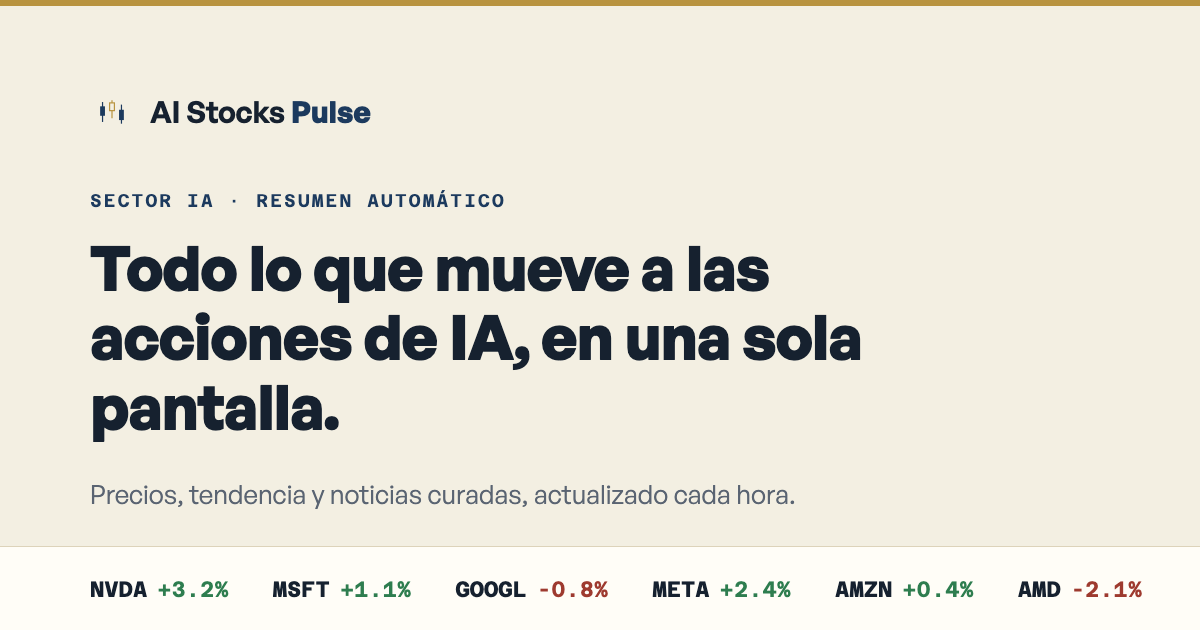
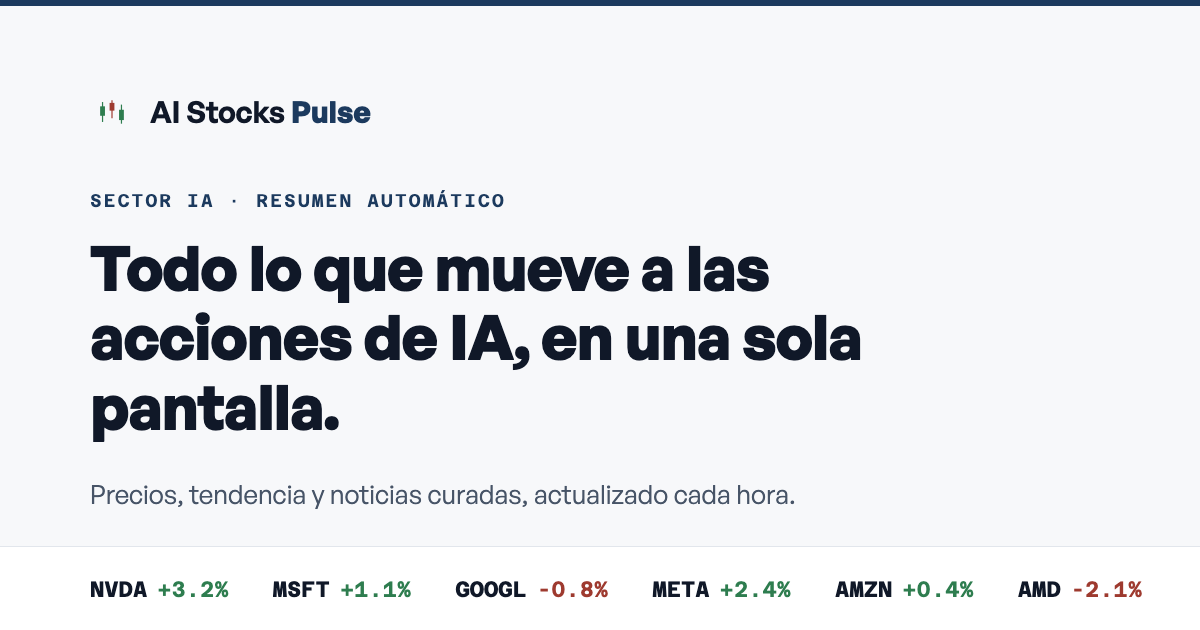
Rediseña colorimetría: paleta neutra fría + acento navy único
Reemplaza el pergamino+oro por blanco/gris frío + un solo acento navy
(colores convencionales de software financiero), vía taste-skill Lila
Rule. Se eliminan --gold/--gold-dim, se recolorean íconos a candlestick
verde/rojo, se regenera la og-image y se documenta el cambio (5ta
iteración de paleta) en DESIGN.md y el sidecar .impeccable/design.json.

Changed region(s): [[0.0, 0.0, 1.0, 0.0302], [0.0617, 0.1508, 0.1233, 0.181]]

diff --git a/styles.css b/styles.css
@@ -1,13 +1,12 @@
 /* ---------------------------------------------------------------------
    AI Stocks Pulse — design system
-   Direction: the stock certificate, not the ledger sheet. Warm parchment
-   paper with navy ink and a rare gold accent — the classic dual-tone of
-   an engraved stock certificate or a bank's letterhead, which reads as
-   unmistakably financial in a way plain green ledger paper didn't.
-   Navy stays the primary interactive accent; gold is a deliberately
-   scarce second accent (the hero panel's border, brand touches) —
-   never used for semantics, which stay green/red/slate. Single
-   deliberate theme: this material doesn't have a "dark mode."
+   Direction: the colors people already recognize from finance software,
+   not an invented editorial palette. Cool neutral white/grey base (the
+   convention almost every banking or trading app uses, for legibility
+   and comfort over long sessions) with a single navy-blue accent — one
+   accent only, everywhere, per the Lila Rule. Semantics (rise/fall/
+   mixed) stay green/red/slate and never borrow the accent hue. Single
+   deliberate theme: this is a daily tool, not a themeable brand site.
 
    Prose voice: General Sans, self-hosted (see fonts/GENERAL-SANS-LICENSE.txt)
    — the open-license alternative to SF Pro, so the page reads the same
@@ -71,20 +70,17 @@
 }
 
 :root {
-  --paper: #f3efe2;
-  --panel: #fffdf7;
-  --panel-raised: #ece4cf;
-  --line: #ddd3ba;
-  --line-strong: #c7ba98;
-  --text: #16212f;
-  --text-dim: #5a6472;
-  --text-faint: #8b93a0;
+  --paper: #f7f8fa;
+  --panel: #ffffff;
+  --panel-raised: #eef1f5;
+  --line: #e2e6ec;
+  --line-strong: #ccd3dc;
+  --text: #101828;
+  --text-dim: #475467;
+  --text-faint: #98a2b3;
 
   --accent: #1c3a5e;
-  --accent-dim: rgba(28, 58, 94, 0.1);
-
-  --gold: #b8933f;
-  --gold-dim: rgba(184, 147, 63, 0.14);
+  --accent-dim: rgba(28, 58, 94, 0.08);
 
   --rise: #2e7d4f;
   --rise-dim: rgba(46, 125, 79, 0.1);
@@ -322,13 +318,13 @@ header, main, footer { position: relative; z-index: 1; }
 .sentiment-bearish { color: var(--fall); border-color: rgba(158,58,47,0.3); }
 .sentiment-mixed { color: var(--mixed); border-color: rgba(91,107,122,0.3); }
 
-/* "Ticker readout" panel — hairline top border in gold instead of a
-   gradient card, so it reads as an instrument, not a marketing tile.
-   The one deliberate use of the rare secondary accent. */
+/* "Ticker readout" panel — hairline top border in the single accent
+   instead of a gradient card, so it reads as an instrument, not a
+   marketing tile. */
 .hero-card {
   background: var(--panel);
   border: 1px solid var(--line);
-  border-top: 2px solid var(--gold);
+  border-top: 2px solid var(--accent);
   border-radius: var(--radius-sm);
   padding: 26px 26px 28px;
   display: flex;
@@ -647,7 +643,7 @@ header, main, footer { position: relative; z-index: 1; }
 .modal-overlay {
   position: fixed;
   inset: 0;
-  background: rgba(22, 33, 47, 0.45);
+  background: rgba(16, 24, 40, 0.45);
   display: flex;
   align-items: center;
   justify-content: center;
@@ -660,14 +656,14 @@ header, main, footer { position: relative; z-index: 1; }
   position: relative;
   background: var(--panel);
   border: 1px solid var(--line);
-  border-top: 2px solid var(--gold);
+  border-top: 2px solid var(--accent);
   border-radius: var(--radius-sm);
   padding: 32px 28px 28px;
   max-width: 520px;
   width: 100%;
   max-height: 85vh;
   overflow-y: auto;
-  box-shadow: 0 20px 50px -16px rgba(22, 33, 47, 0.4);
+  box-shadow: 0 20px 50px -16px rgba(16, 24, 40, 0.4);
 }
 
 .modal-close {
@@ -810,7 +806,7 @@ header, main, footer { position: relative; z-index: 1; }
   padding: 12px 20px;
   border-radius: var(--radius-pill);
   font-size: 0.85rem;
-  box-shadow: 0 10px 30px -12px rgba(22, 33, 47, 0.35);
+  box-shadow: 0 10px 30px -12px rgba(16, 24, 40, 0.35);
   opacity: 0;
   pointer-events: none;
   transition: opacity 0.2s ease, transform 0.2s ease;

diff --git a/index.html b/index.html
@@ -21,7 +21,7 @@
 <meta name="twitter:description" content="Precios, tendencia y noticias de las principales acciones de Inteligencia Artificial, resumido en 30 segundos.">
 <meta name="twitter:image" content="https://scott1z.github.io/ai-stocks-pulse/images/og-image.png">
 
-<meta name="theme-color" content="#f3efe2">
+<meta name="theme-color" content="#f7f8fa">
 <link rel="manifest" href="manifest.json">
 <link rel="icon" href="icons/icon.svg" type="image/svg+xml">
 <link rel="apple-touch-icon" href="icons/icon.svg">

diff --git a/service-worker.js b/service-worker.js
@@ -1,4 +1,4 @@
-const CACHE_NAME = "ai-stocks-pulse-v10";
+const CACHE_NAME = "ai-stocks-pulse-v11";
 const CORE_ASSETS = [
   "./",
   "./index.html",

diff --git a/DESIGN.md b/DESIGN.md
@@ -2,18 +2,16 @@
 name: AI Stocks Pulse
 description: A daily one-page reader for the AI stocks sector — price ledger, composite chart, and curated news.
 colors:
-  paper: "#f3efe2"
-  panel: "#fffdf7"
-  panel-raised: "#ece4cf"
-  hairline: "#ddd3ba"
-  hairline-strong: "#c7ba98"
-  ink: "#16212f"
-  ink-dim: "#5a6472"
-  ink-faint: "#8b93a0"
+  paper: "#f7f8fa"
+  panel: "#ffffff"
+  panel-raised: "#eef1f5"
+  hairline: "#e2e6ec"
+  hairline-strong: "#ccd3dc"
+  ink: "#101828"
+  ink-dim: "#475467"
+  ink-faint: "#98a2b3"
   accent-navy: "#1c3a5e"
-  accent-navy-dim: "rgba(28, 58, 94, 0.1)"
-  accent-gold: "#b8933f"
-  accent-gold-dim: "rgba(184, 147, 63, 0.14)"
+  accent-navy-dim: "rgba(28, 58, 94, 0.08)"
   rise-green: "#2e7d4f"
   rise-green-dim: "rgba(46, 125, 79, 0.1)"
   fall-red: "#9e3a2f"
@@ -82,49 +80,44 @@ components:
 
 **Creative North Star: "The Quiet Terminal"**
 
-A calm, considered instrument for reading the AI stocks sector — not another black AI-dashboard clone with a purple-to-teal glow, not generic glossy abstract art, and not eco-toned ledger paper either (all three were tried and explicitly rejected during this project, the last for "not feeling like finance"). The system now borrows its materiality from the engraved stock certificate — warm parchment, navy ink, a rare stroke of gold — the dual-tone financial institutions have used on certificates and letterhead for a century. Its discipline still comes from a terminal: tabular numbers, a real ticker tape, a real composite chart. Nothing performs; everything reports.
+A calm, considered instrument for reading the AI stocks sector. This palette went through four directions before landing here — a black terminal (too generic-AI-dashboard), sage-green ledger paper (too "eco," didn't read as financial), a parchment-and-gold stock-certificate motif (distinctive, but more editorial than "commonly used and comfortable") — and settled on the colors people already recognize from finance software itself: a cool neutral white/grey base with a single navy-blue accent, the convention most banking and trading apps actually use, chosen for legibility over long daily sessions rather than for novelty. One accent, everywhere, per the Lila Rule — no second accent competing for attention.
 
-The system is deliberately single-theme (light only). This material doesn't have a dark mode any more than a certificate does — committing to one world was a conscious choice, not an omission.
+The system is deliberately single-theme (light only). This is a daily-use tool, not a themeable brand site — committing to one world was a conscious choice, not an omission.
 
 **Key Characteristics:**
-- Warm parchment background, never green-tinted, pure white, or black
-- Navy as the primary interactive accent; gold as a deliberately scarce second accent (never both at once in the same moment)
-- A separate, distinct semantic triad (green/red/slate) for rise/fall/mixed — never reuses either accent hue
+- Cool neutral white/light-grey background — the convention of banking and trading software, not an invented editorial palette
+- One accent only: navy blue, used identically everywhere (brand mark, active states, focus rings, the two structural top-border accents)
+- A separate, distinct semantic triad (green/red/slate) for rise/fall/mixed — never reuses the accent hue
 - Two deliberate type voices: a plain sans for reading, a tracked-out monospace for every number and label
 - Flat surfaces, hairline dividers, real data visualizations (ticker tape, composite chart, sparklines) instead of decorative imagery
 - Reading an article's summary happens in place (a modal), never an automatic redirect off the page
 
 ## Colors
 
-A warm parchment-and-ink palette: two accents used for different jobs, a separate semantic triad, and neutrals with a consistent warm-paper bias rather than true grays.
+A cool, neutral palette with exactly one accent and a separate semantic triad — the same restraint most finance software uses, and for the same reason: the data is the thing people are there to read, not the chrome around it.
 
 ### Primary
-- **Fountain-Pen Navy** (`#1c3a5e`): the primary accent. Brand mark, active filter state, focus rings, links, hover states on ghost buttons. Used often, but never for anything semantic.
+- **Ledger Navy** (`#1c3a5e`): the single accent. Brand mark, active filter state, focus rings, links, hover states on ghost buttons, and the two structural top-border accents (hero panel, modals). Used often and consistently — the same blue everywhere, never a second competing accent.
 
-### Secondary (semantic — separate from both accents, never overlapping them)
-- **Ledger Green** (`#2e7d4f`): price rises, bullish tags, "live" status dot.
-- **Ledger Red** (`#9e3a2f`): price falls, bearish tags — literally "in the red."
+### Secondary (semantic — separate from the accent, never overlapping it)
+- **Ledger Green** (`#2e7d4f`): price rises, bullish tags, "live" status dot, up candles in the brand mark.
+- **Ledger Red** (`#9e3a2f`): price falls, bearish tags — literally "in the red" — down candles in the brand mark.
 - **Ink Slate** (`#5b6b7a`): mixed/neutral sentiment, the third state between rise and fall.
 
-### Tertiary — rare, deliberate
-- **Certificate Gold** (`#b8933f`): the scarce second accent. Used in exactly two places by design: the hero panel's top border (marking it as "the instrument") and the news-modal panel's top border. Never a fill, never body text, never used alongside navy for the same purpose — if navy is doing the job, gold doesn't also appear.
-
 ### Neutral
-- **Parchment** (`#f3efe2`): page background (`--paper`). Warm, not green — the paper of a certificate, not a plant.
-- **Certificate White** (`#fffdf7`): card/panel surface — the hero readout, ticker tape, modal, toast — distinguishable from the page itself, still warm-toned rather than clinical white.
-- **Raised Parchment** (`#ece4cf`): subtle hover tint for ledger rows and news rows (`--panel-raised`).
-- **Parchment Hairline** (`#ddd3ba`): the default divider — between ledger rows, news rows, ticker items.
-- **Parchment Rule** (`#c7ba98`): a stronger hairline for structural borders (input/chip outlines, the ledger header rule).
-- **Navy Ink** (`#16212f`): primary text. Near-black with a deliberate navy bias, never a true black.
-- **Faded Ink** (`#5a6472`): secondary text (sub-copy, blurbs, chip labels at rest).
-- **Pencil Grey** (`#8b93a0`): tertiary/faint text (captions, stat labels, placeholders).
+- **Cool White** (`#f7f8fa`): page background (`--paper`). Neutral, not warm — the background of a banking dashboard, not a stationery brand.
+- **Panel White** (`#ffffff`): card/panel surface — the hero readout, ticker tape, modal, toast — distinguishable from the page itself.
+- **Raised Grey** (`#eef1f5`): subtle hover tint for ledger rows and news rows (`--panel-raised`).
+- **Hairline** (`#e2e6ec`): the default divider — between ledger rows, news rows, ticker items.
+- **Hairline Strong** (`#ccd3dc`): a stronger hairline for structural borders (input/chip outlines, the ledger header rule).
+- **Ink** (`#101828`): primary text. Cool near-black, never a true `#000`.
+- **Faded Ink** (`#475467`): secondary text (sub-copy, blurbs, chip labels at rest).
+- **Pencil Grey** (`#98a2b3`): tertiary/faint text (captions, stat labels, placeholders).
 
 ### Named Rules
-**The One Voice Rule.** Fountain-Pen Navy is the primary accent; Certificate Gold is a rare second one. Neither ever does semantic work — if a color means rise/fall/mixed, it is never navy or gold.
+**The One Accent Rule.** Ledger Navy is the only brand accent on the page, full stop — not "the primary one among two." It never does semantic work — if a color means rise/fall/mixed, it is never navy.
 
-**The No-Black Rule.** No `#000000` and no clinical `#ffffff` stands alone as a surface without the warm-parchment bias — even "white" panels sit on parchment, and "black" text carries a navy undertone. Pure neutrals read as generic; the warmth is what makes it this system.
-
-**The Gold Scarcity Rule.** Gold appears in exactly two places (hero panel border, modal panel border) and nowhere else. The moment gold shows up a third time, it stops reading as "rare" and starts reading as decoration — don't let that happen.
+**The No-Black Rule.** No `#000000` and no clinical, context-free `#ffffff` — panels and text both carry a deliberate cool bias rather than being pure values. Pure neutrals read as generic; the considered cool tone is what makes it this system.
 
 ## Typography
 
@@ -153,27 +146,27 @@ The hero is the one asymmetric moment: a 1.15fr/0.85fr split (text left, readout
 
 The stock ledger uses a fixed column template (`minmax(190px, 1.6fr) 88px 78px 116px 92px` — company / price / change / trend / signal) shared between the header row and every data row, so columns stay aligned. Under 640px this collapses to a 2-column stacked layout per row rather than preserving five columns on a phone.
 
-The news modal centers over the page with a fixed-position dark scrim behind it (`rgba(22, 33, 47, 0.45)`), capped at `520px` wide and `85vh` tall with internal scroll — never full-screen, always readable as "a card lifted above the page," dismissible by close button, clicking the scrim, or Escape.
+Both modals (News, Stock Detail) center over the page with a fixed-position dark scrim behind them (`rgba(16, 24, 40, 0.45)`), capped in width with internal scroll — never full-screen, always readable as "a card lifted above the page," dismissible by close button, clicking the scrim, or Escape.
 
 ## Elevation & Depth
 
-Flat by default — no ambient drop shadows anywhere in the resting UI. Depth is conveyed by hairline dividers and small tonal shifts (`--panel` vs `--panel-raised` on row hover), not by shadow layering. Paper doesn't float — except the two things that genuinely do.
+Flat by default — no ambient drop shadows anywhere in the resting UI. Depth is conveyed by hairline dividers and small tonal shifts (`--panel` vs `--panel-raised` on row hover), not by shadow layering.
 
 ### Shadow Vocabulary
-- **Toast float** (`box-shadow: 0 10px 30px -12px rgba(22, 33, 47, 0.35)`): the transient status toast.
-- **Modal float** (`box-shadow: 0 20px 50px -16px rgba(22, 33, 47, 0.4)`): the news-summary modal — heavier than the toast because it sits over a dark scrim and needs to read as clearly detached from the page beneath it.
+- **Toast float** (`box-shadow: 0 10px 30px -12px rgba(16, 24, 40, 0.35)`): the transient status toast.
+- **Modal float** (`box-shadow: 0 20px 50px -16px rgba(16, 24, 40, 0.4)`): both modals — heavier than the toast because they sit over a dark scrim and need to read as clearly detached from the page beneath them.
 - **Live-status halo** (`box-shadow: 0 0 0 3px var(--rise-dim)`): not elevation — a soft focus ring around the "live" status dot when data is real (vs. demo).
 
 ### Named Rules
-**The Flat-By-Default Rule.** Elevation is earned only by things that are genuinely temporary or floating above the page (the toast, the modal). A permanent, in-flow element never gets a drop shadow — use a hairline or a tonal shift instead.
+**The Flat-By-Default Rule.** Elevation is earned only by things that are genuinely temporary or floating above the page (the toast, the two modals). A permanent, in-flow element never gets a drop shadow — use a hairline or a tonal shift instead.
 
 ## Shapes
 
 Two radii, applied by role, never mixed within it:
-- **Pill (`999px`)**: every interactive/status element — buttons, filter chips, badges (sentiment, demo/live pill, stock tags), the toast, the modal's close button.
-- **Sharp (`4px`)**: every structural container — the hero readout panel, the search input, the news modal panel. Reads closer to a cut paper edge than a soft app card.
+- **Pill (`999px`)**: every interactive/status element — buttons, filter chips, badges (sentiment, demo/live pill, stock tags), the toast, the modal close buttons.
+- **Sharp (`4px`)**: every structural container — the hero readout panel, the search input, both modal panels. Reads closer to a real financial document than a soft consumer-app card.
 
-Borders are hairlines throughout (1px), never thick. The two deliberate exceptions are the hero panel's and the modal panel's 2px gold top borders — see The Gold Scarcity Rule.
+Borders are hairlines throughout (1px), never thick. The two deliberate exceptions are the hero panel's and the modal panels' 2px navy top borders — the single accent marking "this is the instrument," not a second color.
 
 ### Named Rules
 **The Two-Radius Rule.** If it's something you click or a status you read, it's a pill. If it's something you read data or an article inside of, it's 4px. No third radius, no card-style 12–16px anywhere.
@@ -205,7 +198,7 @@ Borders are hairlines throughout (1px), never thick. The two deliberate exceptio
 ### News Modal (signature component)
 - **Purpose:** read a curated ~25-word summary of an article without leaving the page — the site's whole premise is "the story in 30 seconds," so a redirect-by-default was working against that.
 - **Structure:** ticker tag (mono, hidden if the article isn't ticker-specific) → headline (display-weight, but smaller than the hero H1) → source/time meta (mono) → summary (body voice) → an explicit "Leer artículo original ↗" link, hidden when no source URL exists.
-- **Style:** `--panel` background, 2px gold top border (see Shapes), 4px radius, modal-float shadow, over a navy-tinted scrim.
+- **Style:** `--panel` background, 2px navy top border (see Shapes), 4px radius, modal-float shadow, over a navy-tinted scrim.
 - **Dismissal:** close button (pill, top-right), click on the scrim, or Escape. Background scroll is locked while open.
 
 ### Stock Detail Modal (signature component)
@@ -213,10 +206,10 @@ Borders are hairlines throughout (1px), never thick. The two deliberate exceptio
 - **Structure:** ticker + company name + large price/change (mirrors the ledger row's data, just bigger) → sentiment tag → enlarged chart → an honest caption stating how many price snapshots it's built from → "Noticias relacionadas" list filtered to that ticker.
 - **The chart is not candles.** It's the same accumulated `price_history.json` snapshots as the row's sparkline, just bigger and with a grid — deliberately not oversold as TradingView-grade OHLC data, which this project doesn't have a budget-safe source for. The caption says so explicitly.
 - **Related news are clickable too:** each item swaps this modal for the News Modal with that article — a chain, not a dead end. An empty state ("Sin noticias recientes para este ticker") is shown honestly rather than hidden.
-- **Style:** same recipe as the News Modal (gold top border, `--panel` background, modal-float shadow) but wider (`600px` vs `520px`) to fit the chart.
+- **Style:** same recipe as the News Modal (navy top border, `--panel` background, modal-float shadow) but wider (`600px` vs `520px`) to fit the chart.
 
 ### Sentiment / Status Badges
-- **Style:** pill, tinted background at ~10–14% opacity of the semantic/accent color, full-opacity text in the same color. Same recipe for sector sentiment, per-stock tags, and the demo/live status pill.
+- **Style:** pill, tinted background at ~8–10% opacity of the semantic/accent color, full-opacity text in the same color. Same recipe for sector sentiment, per-stock tags, and the demo/live status pill.
 - **State:** the demo/live pill additionally gets a small leading dot; when live, the dot carries the halo shadow described in Elevation.
 
 ### Inputs
@@ -232,9 +225,9 @@ Borders are hairlines throughout (1px), never thick. The two deliberate exceptio
 ## Do's and Don'ts
 
 ### Do:
-- **Do** keep Fountain-Pen Navy as the everyday interactive accent, and Certificate Gold rare (exactly two borders, nowhere else) — never let either do rise/fall/mixed semantic work.
+- **Do** keep Ledger Navy as the only accent, used identically everywhere — one color, not "a primary and a rare secondary."
 - **Do** run every number, ticker, and short label through the monospace label voice with `tabular-nums`; keep sentences in the sans.
-- **Do** use hairlines and tonal shifts for hierarchy and depth; reach for a shadow only for the toast and the modal — things genuinely floating above the page.
+- **Do** use hairlines and tonal shifts for hierarchy and depth; reach for a shadow only for the toast and the two modals — things genuinely floating above the page.
 - **Do** apply the pill radius to anything clickable or status-bearing, and the 4px radius to anything you read data or an article inside of — no other radius value.
 - **Do** let a visitor read an article summary in place (the modal) rather than redirecting them off the page by default; the external link stays available but explicit.
 - **Do** make every ledger row a door to a richer detail view (chart + related news) rather than adding decorative imagery to fill space — a data table's answer to "feels empty" is more real content, not illustration.
@@ -242,8 +235,8 @@ Borders are hairlines throughout (1px), never thick. The two deliberate exceptio
 - **Do** treat real data (sparklines, the composite chart, the ticker tape) as the page's visual anchor instead of decorative imagery.
 
 ### Don't:
-- **Don't** introduce a dark mode or a black background, and don't drift back toward green-tinted "eco" paper — parchment-and-navy-and-gold is a deliberate commitment made after two prior directions (black terminal, then sage ledger paper) were tried and moved away from, the second explicitly for "not feeling like finance."
-- **Don't** add drop shadows to permanent in-flow elements (cards, rows, panels) — only the toast and the modal get one.
+- **Don't** introduce a second accent color, warm-tinted neutrals, or a dark mode — this cool-neutral, single-navy-accent palette is a deliberate commitment made after three prior directions (black terminal, sage ledger paper, parchment-and-gold) were tried and moved away from, each for a specific, remembered reason (too generic, didn't feel financial, more editorial than "commonly used and comfortable").
+- **Don't** add drop shadows to permanent in-flow elements (cards, rows, panels) — only the toast and the two modals get one.
 - **Don't** default to rounded-lg (8–16px) cards; the system has exactly two radii and both are already assigned.
 - **Don't** reach for a three-equal-column card grid for the stock list — it's a ledger table with a shared column grid, not a card grid.
 - **Don't** add gradients, glows, or glossy/3D abstract imagery — explicitly tried and rejected during this project for reading as generic AI-generated art.
